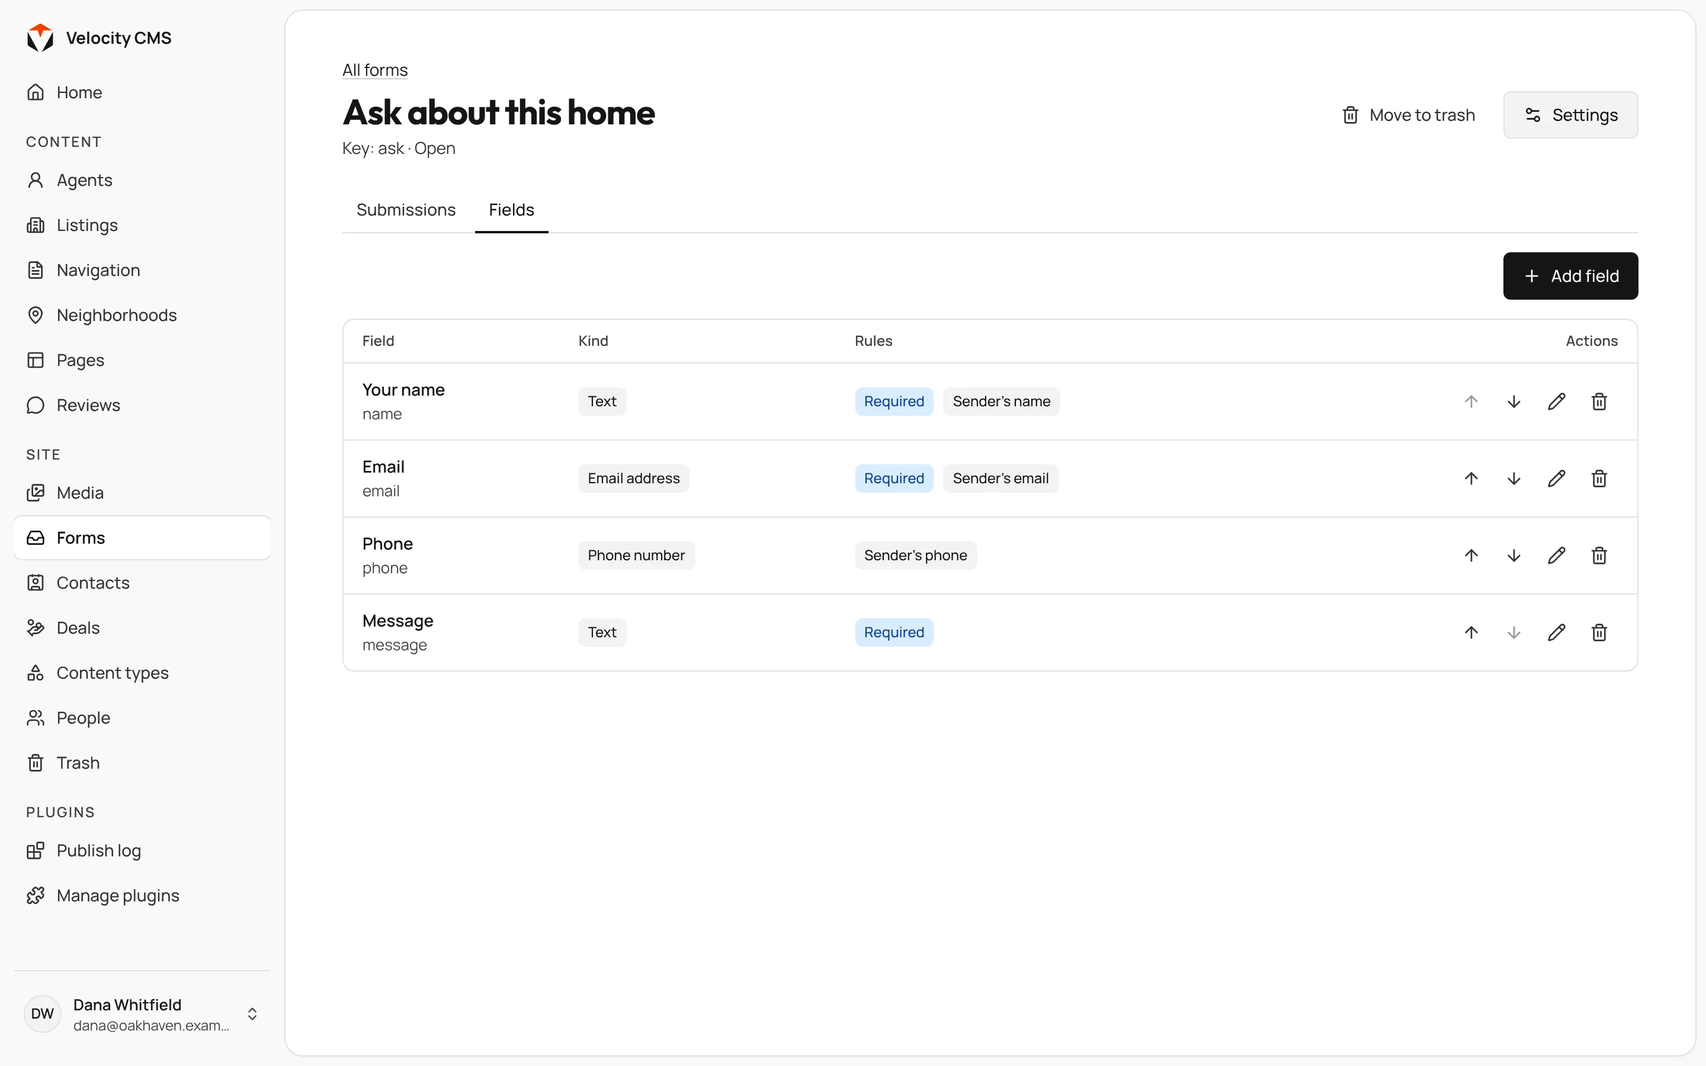
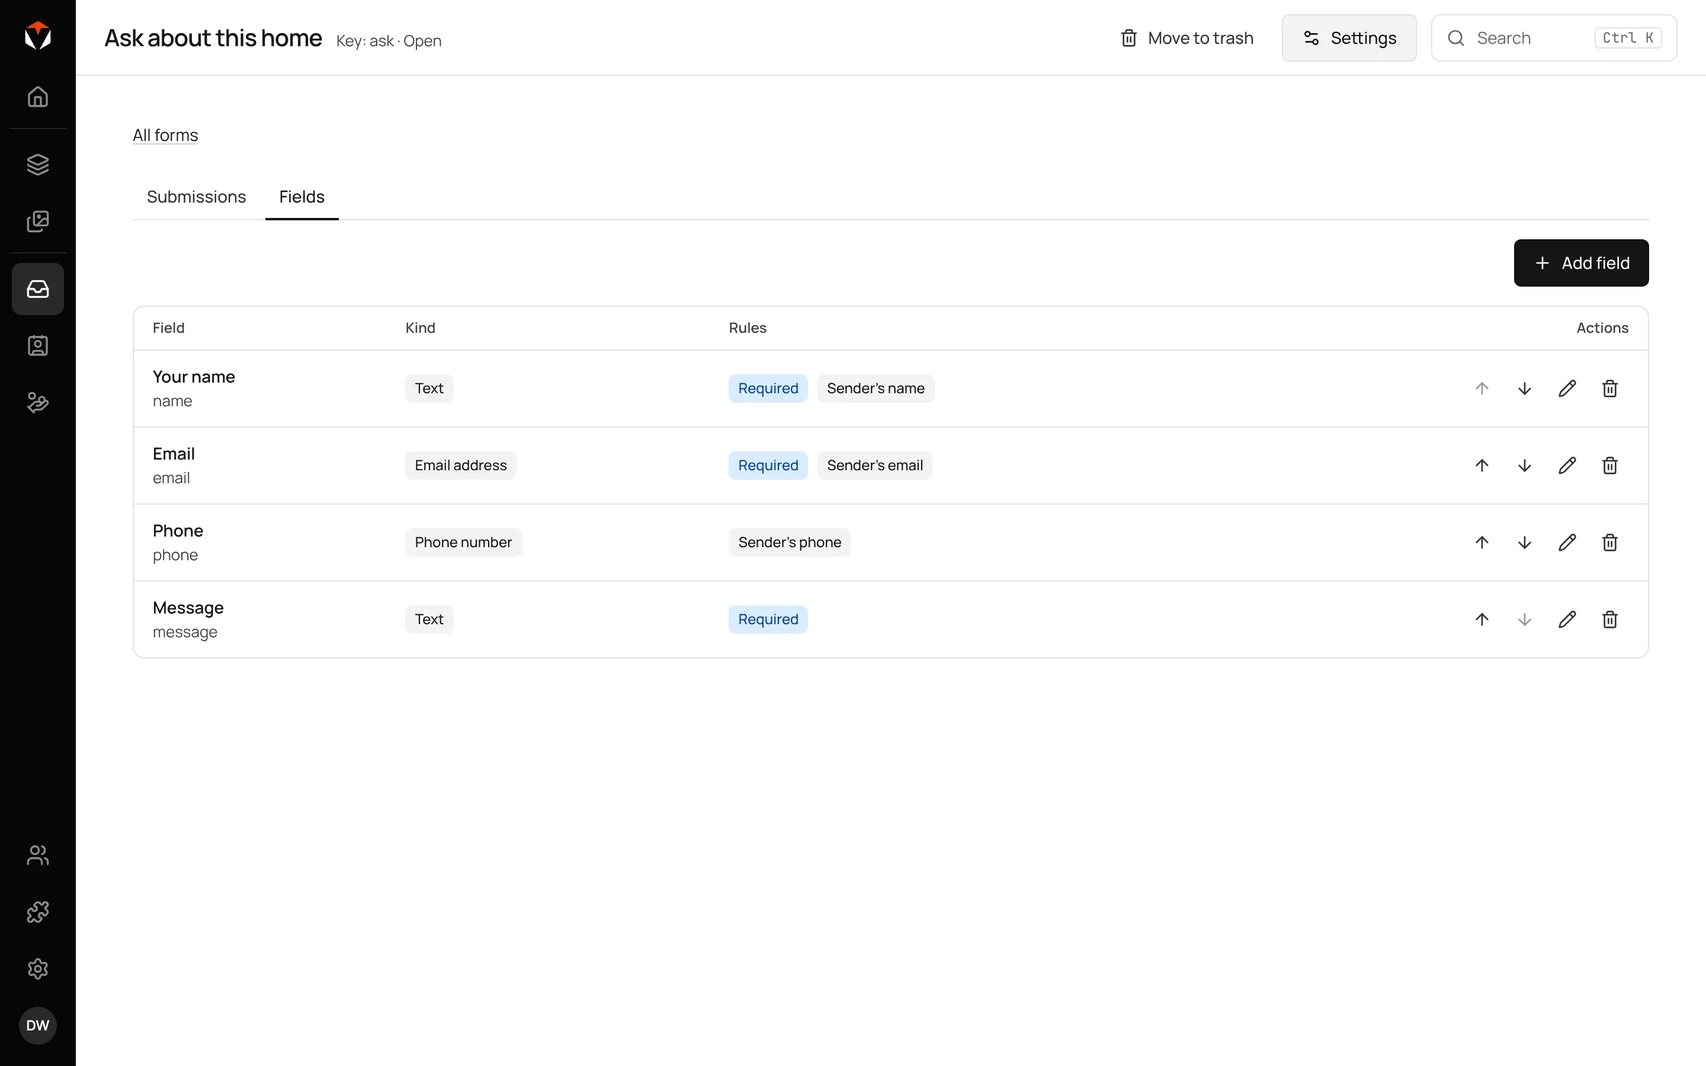
README and AGENTS.md: new screenshots and what changed
New screenshots of today's editor, light and dark, taken from the real
estate template on the CMS with sample content and a sample CRM: the page
beside the form, contacts, deals, a form's fields, a content type, a list
and plugins, and two more, Home and the visual editor with the site's
theme. The README says what the visual editor, the theme and the editor
itself do.

AGENTS.md names Home's screen, the starter's Theme page, the guide's copy
on the docs site, Escape reaching the page from the editor, and a section
opened in the form being brought into view.

Claude-Session: https://claude.ai/code/session_012HxADyL86AXUVxAz2xvfSz

diff --git a/AGENTS.md b/AGENTS.md
@@ -61,6 +61,7 @@ TypeScript (strict) · Zod 4 · web-standard `Request`/`Response` · Better Auth
 - `packages/cms-admin/src/screens/Forms`, `screens/Form` — the forms a site has, and one form: what it was sent (`Submissions.tsx`, new first, then handled and spam), its fields (`FormFields.tsx`, drawn by the shared `FieldSetEditor`) and its settings. A form's fields are saved all at once, each with its id, and only kinds a visitor can fill in are offered (`FieldTypeInfo.takesSubmissions`).
 - `packages/cms-admin/src/screens/Contacts`, `screens/Contact` — the people who wrote to the site (a list with a search, adding one by hand), and one contact: details, the timeline of what they sent and the team's notes, export and erase. For owners and editors.
 - `packages/cms-admin/src/screens/Contacts/PipelineBoard.tsx`, `StagesDialog.tsx`, `pipeline.ts` — the contacts as a board by stage (the `Board` pattern: a card is dragged, or moved from its menu), the window the stages are edited in, and how a stage, an owner and a day to follow up are said. `screens/Contact/ContactWork.tsx` sets the three on one contact; `screens/Home/FollowUps.tsx` lists what is due for whoever is signed in.
+- `packages/cms-admin/src/screens/Home` — the first screen: a greeting that says what is waiting (`Welcome`) beside the home page as visitors see it (`SiteWindow`), the bar above it holding only the search; then cards with charts (`BarChart`): how much each kind of content has, submissions a day over two weeks, the inbox and the open deals by stage (`Audience`), recent changes and what is due to follow up (`FollowUps.tsx`).
 - `packages/cms-admin/src/screens/Deals` — every deal as a board by stage with what is open, forecast and won, and the window a deal is added, changed and deleted in (`DealDialog.tsx`). `screens/Contact/ContactDeals.tsx` lists one contact's deals.
 - `packages/cms-admin/src/screens/Deals/deal-subject.tsx`, `screens/EntryEditor/EntryDeals.tsx` — what on the site a deal is about (a kind of content, then one of its entries, by name), and the card on an entry that lists the deals about it.
 - `packages/cms-admin/src/fields/FieldSetEditor.tsx`, `FieldSetDialog.tsx`, `field-set.ts` — a list of simple fields edited as a whole (`FieldSet`): a form's (`screens/Form/FormFields.tsx`) and the custom fields of contacts and deals (`fields/CustomFieldsDialog.tsx`). `fields/custom-values.tsx` fills custom fields in on one contact or deal, with the controls entries use.
@@ -69,7 +70,7 @@ TypeScript (strict) · Zod 4 · web-standard `Request`/`Response` · Better Auth
 - `packages/cms-plugins/` — the plugins that come with the CMS (`catalogue`), each in its own folder. `cms-astro/src/site-plugins.ts` loads them on every site after the site's own, switched off until an owner activates one. `seo/` is the first: `analyse.ts` judges an entry, `plugin.ts` is the server side, `editor.ts` the editor's part. `webhooks/` sends what happens (a form submitted, a contact or a deal changed, a page published) to the addresses an owner lists, signed when a signing secret is saved. `mailchimp/` adds whoever sends a form to a Mailchimp audience: the API key is a secret and the only thing that chooses the host (`mailchimpHost`), someone already in the audience is never updated, and an owner may name the forms and a yes or no field that asks for consent. `slack/` posts to a channel when a form is sent or a contact is made: the webhook address is a secret, only `hooks.slack.com` is posted to (`slackAddress`), and a message names the person only when the owner asks. `hubspot/` copies contacts to HubSpot one way, matched by email, to one fixed address (`HUBSPOT_UPSERT`) with a private app token kept as a secret.
 - `packages/velocity-cms/` — the `npx velocity-cms` command for a site that does not have the CMS yet: `init` installs `@velocity-astro/cms-astro` with the site's package manager, and every command is handed to the CMS the site has. No build and no dependencies.
 - `scripts/version.mjs`, `scripts/next-release.mjs`, `scripts/publish.mjs`, `scripts/github-release.mjs`, `.github/workflows/release-pr.yml`, `release.yml`, `github-release.yml`, `CHANGELOG.md` — a release: every package gets one version and the changelog names it. A change that people who use the CMS would notice adds a line under "Unreleased" in `CHANGELOG.md`; a workflow keeps a pull request, "Release <version>", that files those lines under the next version, and merging it stages that version on npm and makes its GitHub Release. A GitHub Release is written by `scripts/github-release.mjs` (the changelog's section, how to install, the pull requests since the release before; a pre-release when the version has a `-`), and a version tag a person pushes (`v<version>`) gets one by itself (`github-release.yml`); `.github/release.yml` says which pull requests that list leaves out. Run by hand, `release.yml` rehearses unless told to publish. It holds no key: each package on npm trusts this workflow to stage a version, which is public once an owner approves it on npmjs.com.
-- `examples/starter/` — a small site on the CMS that is plain Astro: its model and seed (`cms/`), one component per section, and `npm run check`, which CI runs to prove a site works from an empty database. Keep it small enough to read in one sitting; it is what the README tells people to run.
+- `examples/starter/` — a small site on the CMS that is plain Astro: its model and seed (`cms/`, a Theme page in the settings with a brand color and a headings font that its layout writes as CSS variables), one component per section, and `npm run check`, which CI runs to prove a site works from an empty database. Keep it small enough to read in one sitting; it is what the README tells people to run.
 - `prototypes/` — phase 0 experiments. Scripts here may be rough; packages may not.
 
 ## Rules
@@ -93,7 +94,7 @@ TypeScript (strict) · Zod 4 · web-standard `Request`/`Response` · Better Auth
 - **Which entry a submission is about is the site's word, never the visitor's.** A page says it with a mark signed for that form (`siteForm(Astro, key, { about })`, `aboutMark`), or the server finds the entry whose own page the post came from (`entryAt`). A form that says `startsDeal` then starts a deal about that entry for the sender (`DealService.started`), when the entry's type takes deals and they have no open deal about it; it is worth nothing until someone says, and a failure there never loses the submission.
 - **A draft sent with a preview is drawn and forgotten.** It is read only from a post by the site's own pages with a valid preview token, shown to the one who sent it, never cached and never stored. Whatever reads an entry for a page passes it through `withPreviewDraft`.
 - **Drafts never leak.** Anything that shows working versions must check `isPreview()`, must not be cached, and must not feed search, the sitemap or share images.
-- **A template's content types are described in code and applied with `schema.define`.** It may run on every deploy: a field keeps its id by key, so content stays, and fields the description leaves out are kept. A type also names the field its entries are called by (`titleField`, by key, which is stored as `titlePath`) and the sections the editor shows (`sections`). How to turn an existing Astro site into one on the CMS, step by step, is `docs/converting-a-template.md`: keep it true when a helper a template uses changes.
+- **A template's content types are described in code and applied with `schema.define`.** It may run on every deploy: a field keeps its id by key, so content stays, and fields the description leaves out are kept. A type also names the field its entries are called by (`titleField`, by key, which is stored as `titlePath`) and the sections the editor shows (`sections`). How to turn an existing Astro site into one on the CMS, step by step, is `docs/converting-a-template.md`, and the docs site has the same text (`southwellmedia/velocity-docs`, `src/content/docs/cms/converting-a-template.mdx`): keep both true when a helper a template uses changes.
 - **Field ids are permanent.** Entry data is keyed by field id, never by key. A rename changes the key only. A removed field is marked `deletedAt` and its data is kept.
 - **A plugin gets the public surface and nothing else.** What `setup` receives is `PluginContext`: add to it deliberately, because every addition is a promise to plugin authors (`PLUGIN_API_VERSION`). A plugin writes through the services as its own actor, with only the permissions it declared, and a failure in one is caught, counted and shown under Plugins; it never stops a save or a publish. A plugin's own addresses live under `/api/cms/plugins/<name>/` and keep every API rule; its settings are fields, drawn by the editor with the controls entries use.
 - **In the editor, a plugin gets what it is handed and nothing else.** Its editor file is one prebuilt module with no React of its own. It adds screens, panels on an entry and field controls through `register`, reaches only its own addresses through `client`, and builds from the parts in `plugin-ui.ts`. Each part and each method there is a promise to plugin authors: add on purpose, never remove within one `PLUGIN_API_VERSION`. Whatever a plugin draws is wrapped in `PluginBoundary`, and a file that fails to load leaves the plugin out and the editor running.
@@ -114,10 +115,10 @@ TypeScript (strict) · Zod 4 · web-standard `Request`/`Response` · Better Auth
 - **The site's theme is fields of its settings, tried beside a page.** The Theme card of the visual editor (`screens/EntryEditor/ThemeCard.tsx`, opened from its menu) shows the looks of every page kept in the settings: the fields whose control says they are swatches or a look (`isLook`: a colour, a font). What is chosen is held by the form and sent with the page's own draft (`PreviewDraft.with`, a few entries at most, read and forgotten like the draft itself), so the page shows it and nothing is saved. Publishing saves and publishes the settings entry as its own screen does, with its revision, and is for those who may publish. Don't keep a theme anywhere but those fields.
 - **A width of the preview is a screen's width, never the pane's.** `PagePreview` draws the page at the width its choice stands for (`pagePreviewWidths`) and, where the pane is narrower, shows it smaller and whole. It tells the page how much smaller (`zoom`), and the bridge draws its own tools that much larger (`grows`, `at`), so a button on the page is the size it always is and is pressed where it is seen. Whatever the bridge adds to its layer goes through `grows`.
 - **The editor fits a phone.** Below `md` the `AppShell` shows a bar with a button that opens the menu in a drawer, and spacing, grids and headers fold by themselves (`scales.ts`): a screen never sets a width for a size of window. The bar is one row on every window, as on any phone: the menu, the screen's title (cut to fit) and its state on the same line, its buttons and the search. A screen's main button `collapses` to its icon there and its other buttons are `PageHeader` `secondary`, one menu on a phone; a screen that leads back (an entry's `SaveBar` with `back`) has the way back in the menu's place and no search. What does not fit a phone goes into the screen's one menu (`useNarrow`), never onto a second row or off the edge. A table marks the columns a phone can do without `isSecondary`. Check a change at 390 pixels wide, not only on a desktop.
-- **A page drawn again is where it was.** The page beside the form is asked for anew with every change, and the person must not see that: the bridge keeps which section was in the window and where (`pagehide`), puts the page back by it before anything is shown (the script is the last thing in the page, runs as it is read, and the head holds the first frame for it with `rel="expect"`), and makes a template's turn from page to page take no time. The script's address carries a mark of its version (`EDITOR_PREVIEW_VERSION`) so a browser keeps it. The editor asks for a section to be brought into view only on the first page and when the change itself asked for one (a section moved or added); otherwise it says `still`. Whatever is added to the page's side is checked for this in a real browser, on a slow connection, far down a long page.
+- **A page drawn again is where it was.** The page beside the form is asked for anew with every change, and the person must not see that: the bridge keeps which section was in the window and where (`pagehide`), puts the page back by it before anything is shown (the script is the last thing in the page, runs as it is read, and the head holds the first frame for it with `rel="expect"`), and makes a template's turn from page to page take no time. The script's address carries a mark of its version (`EDITOR_PREVIEW_VERSION`) so a browser keeps it. The editor asks for a section to be brought into view only on the first page and when the change itself asked for one (a section moved or added); otherwise it says `still`. A section opened in the form, again or for the first time, is brought into view (`PageFocus.openedAt`, `PagePreview` `shownAt`) unless its top is already in the upper half of the window. Whatever is added to the page's side is checked for this in a real browser, on a slow connection, far down a long page.
 - **A section may hold sections, and one field answers for all of them.** A block's own `blocks` fields are places inside it (the columns of a row). In the form each is drawn by its own control, `BlocksControl` again, under `PageFocusInside`, which lets it open what is pressed and nothing more. To the page, the `BlocksControl` of the field that holds the page answers for every section however deep: it gathers every list (`gather`, through `FieldControl.sections`), and a button, a swatch, typed words or a drag is done in the list the section is in. A section goes from one place to another only where both take blocks of the same keys, and is held there under that place's own ids (`FieldControl.carried`, `carry.ts`); a move that would lose a value is refused. A copy of a section gives every section inside it a new id (`copyOf`). A template marks a place with `slotMark`; the bridge takes what is inside an inner section as that section's alone (`within`).
 - **One bar on the page, and it stays for the pointer.** Everything the page offers for a section is on that section's one bar: move, copy, remove, add, its swatches, and at its end, in the editor's orange, what can be done to the thing the pointer was last on (a picture, a link, an item of a list), which is outlined in the same orange. Don't float a button of its own beside a thing. What the bar is about stays while the pointer travels (over nothing, over what is no section, across other things) and turns to another thing only when the pointer rests on it or presses it; a page drawn again after a button was pressed has the bar on the same section and item (`again`), so a button can be pressed twice.
-- **A section of the page is moved among names, not across the page.** A page is long and a section tall, so where a dragged one would land cannot be seen on the page. Dragging a section of the page itself by its bar lays the page's sections out by name over the page, one short row each (`openStack`): the held one follows the pointer, a thick line shows where it would land, and letting go says `move`. "Reorder" on the bar opens the same rows to stay: a row is dragged or sent a place earlier or later, and the rows are open again at once on each page drawn from a move, until Done. The rows are the bridge's own layer; the page is not shrunk or changed. A section inside another is still dragged on the page, where its places are.
+- **A section of the page is moved among names, not across the page.** A page is long and a section tall, so where a dragged one would land cannot be seen on the page. Dragging a section of the page itself by its bar lays the page's sections out by name over the page, one short row each (`openStack`): the held one follows the pointer, a thick line shows where it would land, and letting go says `move`. "Reorder" on the bar opens the same rows to stay: a row is dragged or sent a place earlier or later, and the rows are open again at once on each page drawn from a move, until Done. The rows are the bridge's own layer; the page is not shrunk or changed. A section inside another is still dragged on the page, where its places are. Escape closes the rows and drops a dragged section where it was, from the page or from the editor around it: the editor counts each Escape nobody else took (`lib/use-escapes.ts`) and tells the page (`PagePreview` `escapes`, the bridge's `escape`), which takes it as its own.
 - **The bridge draws above the page and changes nothing of it.** What it shows (an outline, later a toolbar) lives in its own layer over the page, styled from script, so a template's markup, classes and layout are never touched and the page's content rules stay strict. The one exception is the element being typed into, which is editable while it is and put back as it was. It stands alone (`fn.toString()`): its argument only, no imports, no helpers from the file. It speaks only to the window that frames it, on this site's own origin, and listens to nothing else. A field is found by a mark the template wrote (`fieldMark`) or, where the section says what it holds (`sectionMark(id, data)`, `data-cms-values`), by the words or the picture it shows: what is found that way is kept in the bridge's own memory, never written on the page, and a template's mark always comes first. A page with no marks still works: marks make it better, never required.
 - **A page is sections of data, never markup.** A section says which block it is by the block's id and holds that block's values by field id; the site receives the block's key and the values by key, and the template's own component draws it. A block's look is a choice among named values, not a free size or colour. A block's picture for the picker (`thumbnail`) is a path on the site and nothing else, since the editor loads it. Blocks are described in code: what a description leaves out is retired or marked removed, never deleted, and sections made from a retired block are kept and left off the site.
 - **A slug is one part of an address unless the type says otherwise.** A type whose address pattern says `[...slug]` (`/[...slug]`) takes slugs of several parts, such as `services/roofing`, so pages can sit under pages; every part is a slug by itself (`isSlugPath`). Nothing else may put a slash in an address. The entry whose slug is `index` is the page at the top of such a pattern: with `/[...slug]`, the home page, at `/` and nowhere else.

diff --git a/README.md b/README.md
@@ -18,18 +18,22 @@ The demo is a real estate site on the CMS, with one click into its editor. Every
 | | |
 |---|---|
 | **Content** | Content types made in a visual builder or described in code. Drafts and published versions, trash, duplicate, history with restore, scheduled publishing, preview links, several languages. |
-| **Pages** | Pages built from sections, with the live page beside the form. Pages under pages, a home page, menus edited in the CMS. |
+| **Pages** | Pages built from sections, with the live page beside the form, or a visual editor that gives the page the window: words typed on the page, sections moved, added and removed there. Pages under pages, a home page, menus edited in the CMS. |
+| **Theme** | A site's colors and fonts set in the editor: a color picker with the template's palette, the template's fonts, tried on the page before they are published. |
 | **Media** | An image library with uploads, kept in a folder or any S3-compatible bucket. Each upload is made lighter and kept as WebP. |
 | **Forms** | A form builder, forms as page sections, spam marking, an optional Cloudflare Turnstile check, notices by email, export and erase of what a person sent. |
 | **CRM** | Contacts with a timeline and notes, a pipeline board, owners and follow-up days, deals with a forecast, custom fields, CSV import. |
 | **Plugins** | A plugin API with settings, secrets and retried background work. Five come with it, off until an owner switches one on: SEO, Webhooks, and the experimental Mailchimp, Slack and HubSpot. |
 | **People** | Sign-in by email link or passkey, no passwords. Owner, editor and author roles. Invitations. |
+| **Editor** | A home that says what is waiting, one bar at the top of every screen, search with Ctrl or Command and K, light and dark, and a layout that fits a phone. |
 | **Site** | Live pages from a cache that a publish clears. Search and the sitemap follow. A fully static build is an option. |
 
 ## A look around
 
 | | |
 |---|---|
+| <picture> <source media="(prefers-color-scheme: dark)" srcset="docs/screenshots/home-dark.webp"> <img src="docs/screenshots/home-light.webp" alt="Home: a greeting that says what is waiting, the home page beside it, and cards with charts"></picture> | <img src="docs/screenshots/visual-editor.webp" alt="The visual editor: the page's sections by name, the page, and the site's theme with its brand color and fonts"> |
+| **Home.** What is waiting, the home page as visitors see it, and how the content, the forms and the deals stand. | **Visual editor.** The page has the window: type on it, move its sections, and try the site's colors and fonts before publishing. |
 | <picture> <source media="(prefers-color-scheme: dark)" srcset="docs/screenshots/contacts-board-dark.webp"> <img src="docs/screenshots/contacts-board-light.webp" alt="Contacts as a board by stage"></picture> | <picture> <source media="(prefers-color-scheme: dark)" srcset="docs/screenshots/deals-dark.webp"> <img src="docs/screenshots/deals-light.webp" alt="Deals by stage with what is open, forecast and won"></picture> |
 | **Contacts.** Everyone who wrote in through a form, by stage, with an owner and a day to follow up. | **Deals.** What each contact may buy, added up by stage and by how likely it is. |
 | <picture> <source media="(prefers-color-scheme: dark)" srcset="docs/screenshots/form-fields-dark.webp"> <img src="docs/screenshots/form-fields-light.webp" alt="A form and its fields"></picture> | <picture> <source media="(prefers-color-scheme: dark)" srcset="docs/screenshots/content-type-dark.webp"> <img src="docs/screenshots/content-type-light.webp" alt="A content type and its fields in the builder"></picture> |
